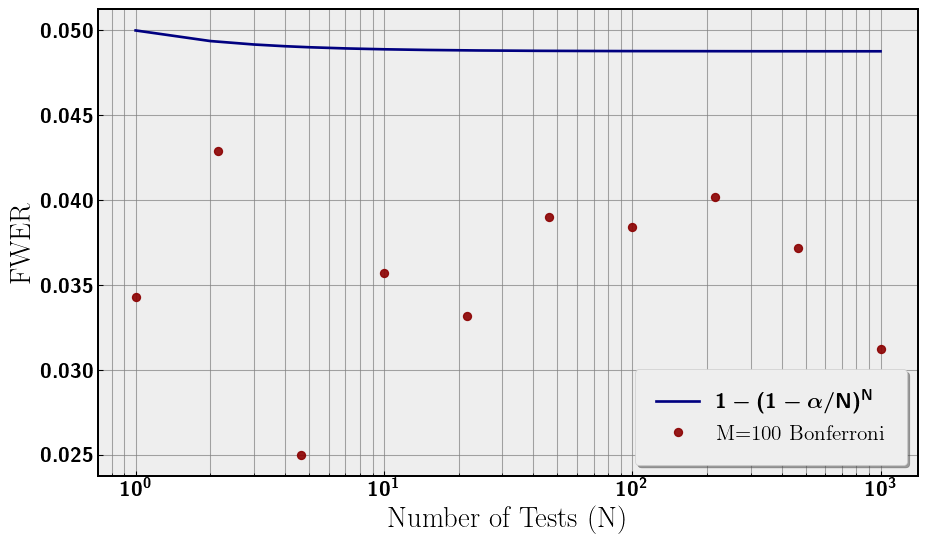
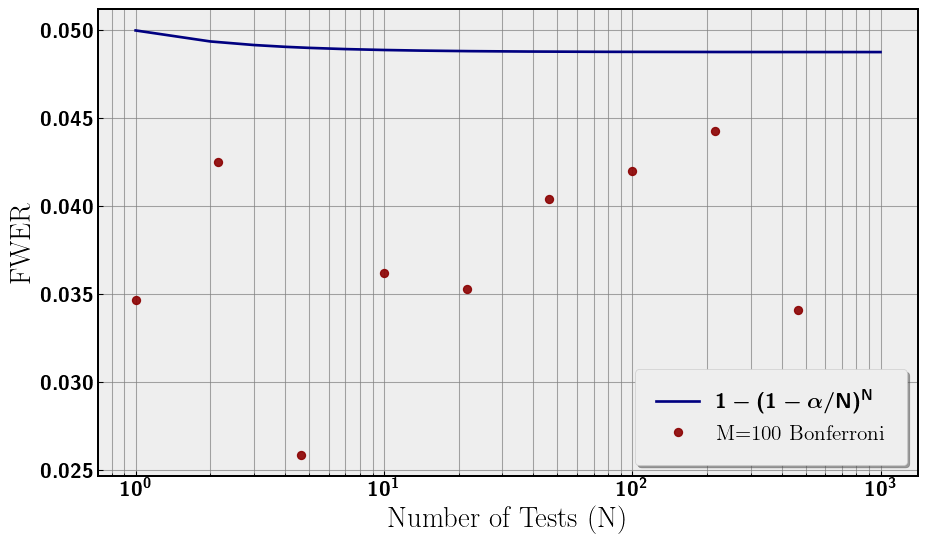
updated a lot of website style stuff

diff --git a/assets/css/styles.css b/assets/css/styles.css
@@ -1,0 +1,84 @@
+body {
+  background: linear-gradient(to right, #f0f8ff, #ffffff); /* Soft gradient from light blue to white */
+  color: black;
+  text-align: left;
+  font-family: 'Arial', sans-serif;
+}
+
+h1 {
+  font-size: 4rem;
+  font-weight: bold;
+  margin-top: 100px;
+  text-shadow: 3px 3px 5px rgba(0, 0, 0, 0.1); /* Subtle text shadow for better readability */
+  text-align: center;
+}
+
+h2 {
+  font-size: 1.5rem;
+  font-weight: lighter;
+  color: #555;
+  margin-bottom: 40px;
+  text-align: center;
+}
+  
+/* Make the image circular with a border */
+.home-img {
+  width: 300px; /* Control the size of the image */
+  height: 300px; /* Ensure the height is the same as the width to make it circular */
+  border-radius: 50%; /* This makes the image circular */
+  border: 5px solid rgb(16, 16, 16); /* Adds a white border around the image */
+  object-fit: cover; /* Ensures the image fits well inside the circle */
+  display: block; /* Centers the image */
+  margin: 0 auto; /* Centers the image horizontally */
+}
+
+/* Home Page Header */
+.home-header {
+  padding: 30px;
+  text-align: center;
+}
+
+/* Other Pages Header */
+.other-page-header {
+  padding: 30px;
+  text-align: center;
+}
+
+.cv-wrapper {
+  display: flex;
+  flex-direction: column;
+  align-items: center; /* Center horizontally */
+  text-align: center;  /* Center text */
+  margin: 0 auto;
+}
+
+.cv-wrapper object {
+  margin-top: 20px;
+  margin-bottom: 20px;
+}
+
+.cv-wrapper p {
+  margin: 10px 0;
+}
+
+/* Targeting the navigation links in the header */
+.site-nav a {
+  font-size: 16px; /* Adjust this value as needed */
+  text-transform: uppercase; /* Optional: To make the links uppercase */
+}
+
+/* If you want to adjust the header title font size too */
+.site-header .site-title {
+  font-size: 24px; /* Adjust as needed */
+}
+
+.center-page {
+  display: flex;
+  flex-direction: column;
+  align-items: center;
+  justify-content: center;
+  text-align: center; /* Center-align text if needed */
+  min-height: 100vh; /* Make the page take up the full height */
+  margin: 0 auto;
+  padding: 2rem;
+}

diff --git a/_includes/header.html b/_includes/header.html
@@ -1,0 +1,40 @@
+<header class="site-header">
+    <div class="wrapper">
+      <!-- Site Title -->
+      <a class="site-title" rel="author" href="{{ "/" | relative_url }}">
+        {{ site.title | escape }}
+      </a>
+  
+      <!-- Home Page Header -->
+      {% if page.url == "/" %}
+        <!-- Home Page-specific Header Content -->
+        <div class="home-header">
+        </div>
+      {% else %}
+        <!-- Other Pages Header Content -->
+        <div class="other-page-header">
+        </div>
+      {% endif %}
+  
+      <!-- Navigation Menu -->
+      <nav class="site-nav">
+        <input type="checkbox" id="nav-trigger" class="nav-trigger" />
+        <label for="nav-trigger">
+          <span class="menu-icon">
+            <svg viewBox="0 0 18 15" width="18px" height="15px">
+              <path d="M18,1.484c0,0.82-0.665,1.484-1.484,1.484H1.484C0.665,2.969,0,2.304,0,1.484l0,0C0,0.665,0.665,0,1.484,0h15.032C17.335,0,18,0.665,18,1.484L18,1.484z M18,7.516C18,8.335,17.335,9,16.516,9H1.484C0.665,9,0,8.335,0,7.516l0,0c0-0.82,0.665-1.484,1.484-1.484h15.032C17.335,6.031,18,6.696,18,7.516L18,7.516z M18,13.516C18,14.335,17.335,15,16.516,15H1.484C0.665,15,0,14.335,0,13.516l0,0c0-0.82,0.665-1.483,1.484-1.483h15.032C17.335,12.031,18,12.695,18,13.516L18,13.516z"/>
+            </svg>
+          </span>
+        </label>
+  
+        <div class="site-nav">
+            {%- assign sorted_pages = site.pages | sort: "order" -%}
+            {%- for page in sorted_pages -%}
+              {%- if page.title and page.nav_exclude != true -%}
+                <a class="page-link" href="{{ page.url | relative_url }}">{{ page.title }}</a>
+              {%- endif -%}
+            {%- endfor -%}
+        </div>
+      </nav>
+    </div>
+  </header>

diff --git a/_layouts/post.html b/_layouts/post.html
@@ -1,0 +1,38 @@
+---
+layout: base
+---
+<article class="post h-entry" itemscope itemtype="http://schema.org/BlogPosting">
+
+  <header class="post-header">
+    <h1 class="post-title p-name" itemprop="name headline">{{ page.title | escape }}</h1>
+    <p class="post-meta">
+      {%- assign date_format = site.minima.date_format | default: "%b %-d, %Y" -%}
+      <time class="dt-published" datetime="{{ page.date | date_to_xmlschema }}" itemprop="datePublished">
+        {{ page.date | date: date_format }}
+      </time>
+      {%- if page.modified_date -%}
+        ~ 
+        {%- assign mdate = page.modified_date | date_to_xmlschema -%}
+        <time class="dt-modified" datetime="{{ mdate }}" itemprop="dateModified">
+          {{ mdate | date: date_format }}
+        </time>
+      {%- endif -%}
+      {%- if page.author -%}
+        • {% for author in page.author %}
+          <span itemprop="author" itemscope itemtype="http://schema.org/Person">
+            <span class="p-author h-card" itemprop="name">{{ author }}</span></span>
+            {%- if forloop.last == false %}, {% endif -%}
+        {% endfor %}
+      {%- endif -%}</p>
+  </header>
+
+  <div class="post-content e-content" itemprop="articleBody">
+    {{ content }}
+  </div>
+
+  {%- if site.disqus.shortname -%}
+    {%- include disqus_comments.html -%}
+  {%- endif -%}
+
+  <a class="u-url" href="{{ page.url | relative_url }}" hidden></a>
+</article>

diff --git a/_layouts/page.html b/_layouts/page.html
@@ -1,0 +1,18 @@
+---
+layout: base
+---
+<link rel="stylesheet" href="{{ 'assets/css/styles.css' | relative_url }}">
+
+<article class="post">
+
+  {% unless page.title_in_content %}
+  <header class="post-header">
+    <h1 class="post-title">{{ page.title | escape }}</h1>
+  </header>
+  {% endunless %}
+
+  <div class="post-content">
+    {{ content }}
+  </div>
+
+</article>

diff --git a/_layouts/home.html b/_layouts/home.html
@@ -1,0 +1,13 @@
+---
+layout: base
+---
+
+<link rel="stylesheet" href="{{ 'assets/css/styles.css' | relative_url }}">
+
+
+<div class="content">
+    <h1>{{ page.title }}</h1>
+    <h2>{{ page.subtitle }}</h2>
+    <img class="home-img" src="{{ '/img/evan1.jpg' | relative_url }}" alt="Evan" width="250">
+  </div>
+  

diff --git a/_layouts/base.html b/_layouts/base.html
@@ -3,9 +3,15 @@
 
   {%- include head.html -%}
 
-  <body>
+  <body class="{{ page.body_class }}">
 
     {%- include header.html -%}
+
+    <main class="page-content" aria-label="Content">
+      <div class="wrapper">
+        {{ content }}
+      </div>
+    </main>
 
     {%- include footer.html -%}
 

diff --git a/cv.md b/cv.md
@@ -2,10 +2,11 @@
 layout: page 
 title: CV 
 permalink: /cv/
+order: 3
 ---
-Here is where my CV/resume will live
-<object data="../download/resume.pdf" width="1000" height="1000" type='application/pdf'></object>
-
-If the embedded preview does not work you can download [here][resume]
-
-[resume]:/download/resume.pdf
+<div class="cv-wrapper">
+  <p>Here is where my CV/resume will live.</p>
+  <p>If the embedded preview does not work you can download <a href="/download/resume.pdf">here.</a></p>
+  <object data="../download/resume.pdf" width="1000" height="1000" type='application/pdf'></object>
+  
+</div>

diff --git a/index.md b/index.md
@@ -1,11 +1,4 @@
 ---
-# Feel free to add content and custom Front Matter to this file.
-# To modify the layout, see https://jekyllrb.com/docs/themes/#overriding-theme-defaults
-
+subtitle: "Data Science | Theoretical Physics | Visualizations"
 layout: home
 ---
-
-Theoretical physics, statistical analysis, data visualization.
-
-![Evan](/img/evan1.jpg){: width="250" }
-

diff --git a/gerri.md b/gerri.md
@@ -2,5 +2,11 @@
 layout: page
 title: Gerri
 permalink: /gerri/
+order: 7
+nav_exclude: true
+body_class: center-page
 ---
+
+You have found the easter egg.
+
 ![Gerri](/img/gerri.jpg){: width="250" }

diff --git a/about.md b/about.md
@@ -2,6 +2,8 @@
 layout: page
 title: About
 permalink: /about/
+order: 2
+body_class: center-page
 ---
 You can reach me at:
 ![My email](/img/email.png){: width="250" }

diff --git a/misc.md b/misc.md
@@ -2,6 +2,7 @@
 layout: page 
 title: Miscellaneous Work
 permalink: /misc/
+order: 6
 ---
 Here is a link to check out some code for pokemon card image fun:
 

diff --git a/physics.md b/physics.md
@@ -2,6 +2,7 @@
 layout: page 
 title: Physics Research 
 permalink: /physics/
+order: 5
 ---
 
 You can find my physics papers here: [INSPIRE][inspire].
